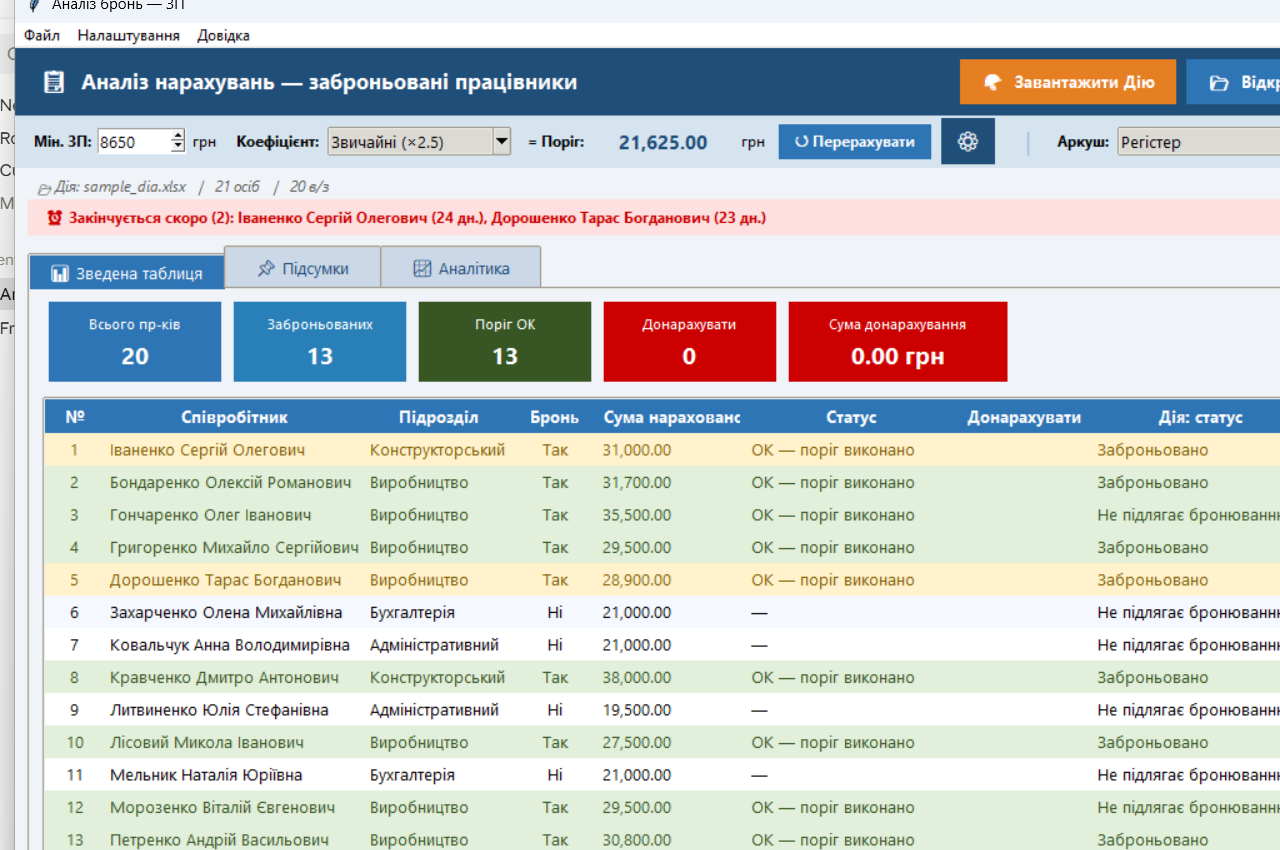
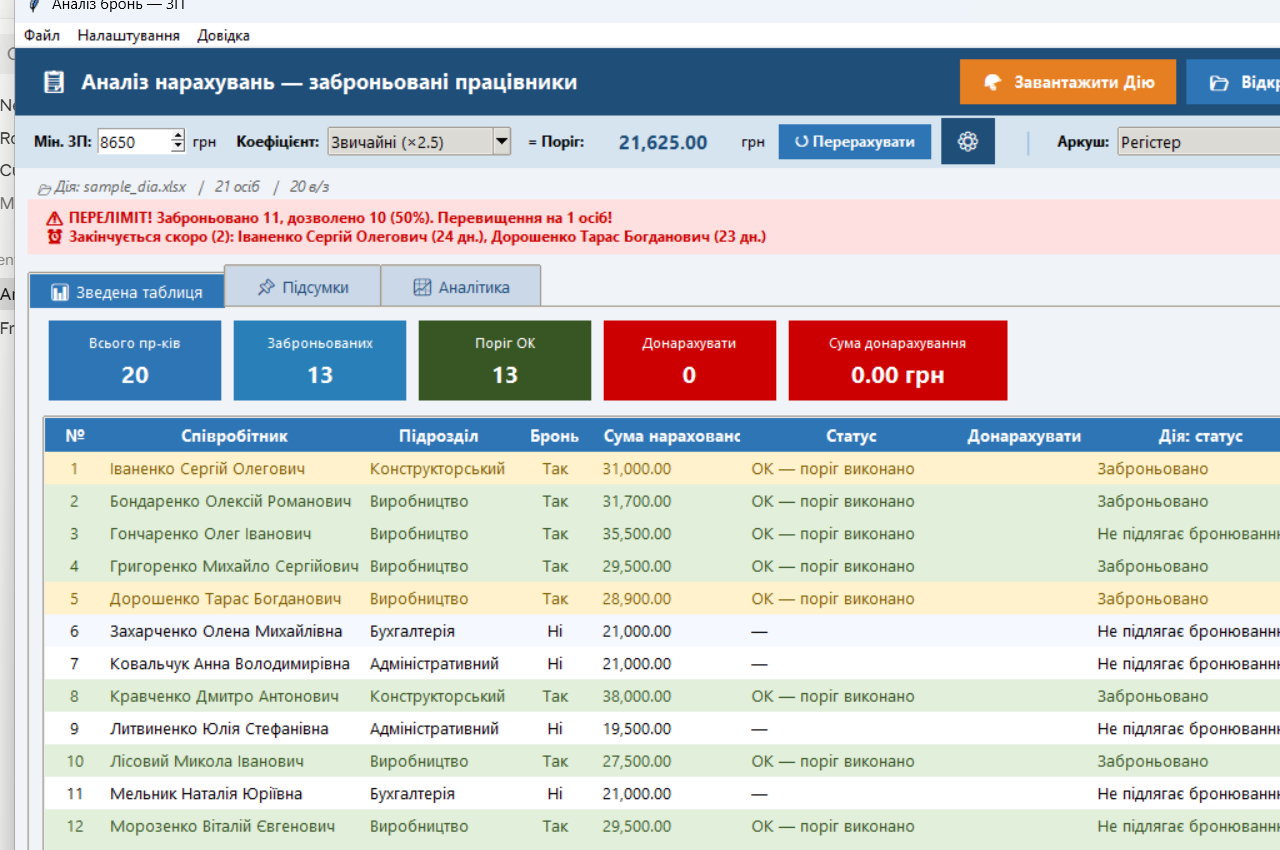
Регенерація скріншотів з реалістичним лімітом 50%
100% бронювання — рідкісний випадок (тільки критичні
підприємства від Міноборони). Більшість компаній має ліміт 50%.

Нові скріншоти показують:
- Червоний банер ПЕРЕЛІМІТ (заброн. 11 при ліміті 10)
- Жовтий банер про закінчення бронювання у 2 осіб
- Картку "55.0% забронь." та "0 залишок місць"
- Реалістичну робочу ситуацію

_make_screenshots.py: вимкнено auto_open щоб file picker
не зʼявлявся над скріншотом + примусове встановлення 50%.

diff --git a/_make_screenshots.py b/_make_screenshots.py
@@ -29,8 +29,13 @@ def grab_window(root, filename):
 
 
 def main():
+    # Відключаємо авто-відкриття щоб не з'являвся file picker
+    m.App._auto_open = lambda self: None
     app = m.App()
     app.geometry("1280x820+50+20")
+    # Реалістичне значення для скріншотів (більшість підприємств):
+    # 50% — стандартне бронювання
+    app._bron_limit_var.set(50)
     app.update()
     time.sleep(0.5)
 
